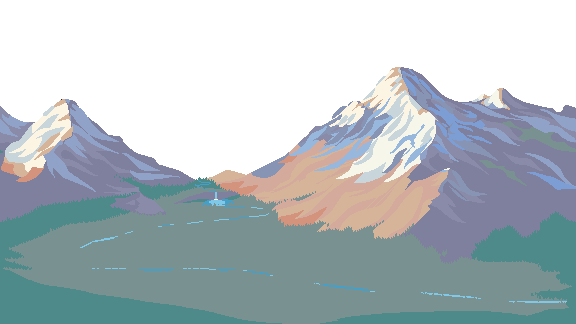
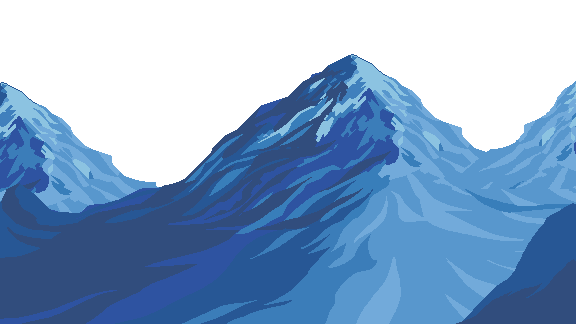
fixed some background bugs and edited some images

diff --git a/src/game/backgroundLayer.ts b/src/game/backgroundLayer.ts
@@ -15,7 +15,7 @@ export class BackgroundLayer implements Entity {
 
     physicsCollider = null;
     spriteType: string;
-    sprite1: ImagePath;
+    sprite: ImagePath;
     sprite2: ImagePath;
     spritePaths: ImagePath[];
 
@@ -32,12 +32,12 @@ export class BackgroundLayer implements Entity {
 
     // used for different middle and foreground layers
     spawnRandom: boolean;
-    timeInterval: number; // in seconds
+    timeInterval = 20; // in seconds
     timeSinceLastChange: number = 0; //in seconds
 
     // used for night/day stuff
     dayNightCycleTime: number = 0; // Time in the cycle
-    cycleDuration: number = 20; // 2 minutes for full day/night cycle
+    cycleDuration: number = 120; // 2 minutes for full day/night cycle
     timeOfDayAlpha: number = 1; // 0 = night, 1 = day
     sunOrMoon: number = 0; // 0 = sun, 1 = moon
 
@@ -49,13 +49,12 @@ export class BackgroundLayer implements Entity {
         startX: number,
         startY: number,
         spawnRandom: boolean = true,
-        timeInterval: number = 5,
     ) {
         let parts = spritePaths[0].split("/");
         this.spriteType = parts[parts.length - 2];
 
         this.id = `${this.tag}#${crypto.randomUUID()}`;
-        this.sprite1 = new ImagePath(spritePaths[0]);
+        this.sprite = new ImagePath(spritePaths[0]);
         this.sprite2 = new ImagePath(spritePaths[0]);
         this.spritePaths = spritePaths.map(path => new ImagePath(path));
 
@@ -70,13 +69,13 @@ export class BackgroundLayer implements Entity {
         this.widthInWorldUnits = widthInWorldUnits;
 
         this.spawnRandom = spawnRandom;
-        this.timeInterval = timeInterval;
+        console.log(`Created ${this.spriteType} layer with ID ${this.id}`);
     }
 
 
     draw(ctx: CanvasRenderingContext2D, game: GameEngine): void {
-        let sprite = game.getSprite(this.sprite1);
-        let sprite2 = game.getSprite(this.sprite2);
+        const sprite = game.getSprite(this.sprite);
+        const sprite2 = game.getSprite(this.sprite2);
 
         const player_width_in_world_units = this.widthInWorldUnits;
 
@@ -115,25 +114,28 @@ export class BackgroundLayer implements Entity {
 
             // blend for day/night cycle
             if (this.spriteType == "background") {
-                sprite = game.getSprite(this.spritePaths[1]);
-                sprite2 = game.getSprite(this.spritePaths[1]);
+                //get night sprites
+                const nightSprite = game.getSprite(this.spritePaths[1]);
+                const nightSprite2 = game.getSprite(this.spritePaths[1]);
+
                 ctx.globalAlpha = this.timeOfDayAlpha;
 
                 ctx.drawImage(
-                    sprite,
+                    nightSprite,
                     screenX - w / 2,
                     screenY - h,
                     w,
                     h
                 );
+                
+                
                 ctx.drawImage(
-                    sprite2,
+                    nightSprite2,
                     screenX2 - w / 2,
                     screenY2 - h,
                     w,
                     h
                 );
-                ctx.globalAlpha = 1;
             }
         }
     }
@@ -158,10 +160,10 @@ export class BackgroundLayer implements Entity {
                 
                 // swap sprites when position resets
                 if (this.spawnRandom && this.timeSinceLastChange >= this.timeInterval) {
-                    this.sprite1 = this.spritePaths[Math.floor(Math.random() * this.spritePaths.length)];
+                    this.sprite = this.spritePaths[Math.floor(Math.random() * this.spritePaths.length)];
                     this.timeSinceLastChange = 0;
                 } else {
-                    this.sprite1 = this.sprite2;
+                    this.sprite = this.sprite2;
                 }
 
             } else {
@@ -175,7 +177,7 @@ export class BackgroundLayer implements Entity {
                     this.sprite2 = this.spritePaths[Math.floor(Math.random() * this.spritePaths.length)];
                     this.timeSinceLastChange = 0;
                 } else {
-                    this.sprite2 = this.sprite1;
+                    this.sprite2 = this.sprite;
                 }
             } else {
                 this.position2.x -= this.velocity.x * this.parallaxSpeed;
@@ -191,23 +193,23 @@ export class BackgroundLayer implements Entity {
     
             if (cycleProgress < 0.5) {
                 // day
-                this.sprite1 = this.spritePaths[0]; // sun
+                this.sprite = this.spritePaths[0]; // sun
                 const sunProgress = cycleProgress * 2;
 
                 this.position.x = this.playerPosition.x + this.worldWidth - (sunProgress * this.worldWidth * 2);
                 // Arc motion
                 const angleInArc = sunProgress * Math.PI * 1.5;
-                this.position.y = this.playerPosition.y - 20 - (Math.sin(angleInArc) * verticalHeight);
+                this.position.y = this.playerPosition.y - 5 - (Math.sin(angleInArc) * verticalHeight);
             } else {
                 // night
-                this.sprite1 = this.spritePaths[1]; // moon
+                this.sprite = this.spritePaths[1]; // moon
                 const moonProgress = (cycleProgress - 0.5) * 2;
         
                 // Move from right to left
                 this.position.x = this.playerPosition.x + this.worldWidth - (moonProgress * this.worldWidth * 2);
                 // Arc motion
                 const angleInArc = moonProgress * Math.PI * 1.5;
-                this.position.y = this.playerPosition.y - 20 - (Math.sin(angleInArc) * verticalHeight);
+                this.position.y = this.playerPosition.y - 5 - (Math.sin(angleInArc) * verticalHeight);
             }
         }
     }

diff --git a/src/game/background.ts b/src/game/background.ts
@@ -40,17 +40,19 @@ export class Background {
         GameEngine.g_INSTANCE.addUniqueEntity(new BackgroundLayer(
             paths, //paths
             0.05, //parallaxSpeed
-            10, //widthInWorldUnits
+            40, //widthInWorldUnits
             0,  //startX doesnt matter here
             0, //startY doesnt matter here
             false, //spawnRandom
-            2000, //TimeInterval
         ), DrawLayer.BACKGROUND);
 
         // this is used for mountains
         paths = [
             "res/img/background/middleground/middle1.png",
             "res/img/background/middleground/middle2.png",
+            "res/img/background/middleground/middle3.png",
+            "res/img/background/middleground/middle4.png",
+            "res/img/background/middleground/middle5.png"
         ];
 
         GameEngine.g_INSTANCE.addUniqueEntity(new BackgroundLayer(
@@ -68,6 +70,8 @@ export class Background {
             "res/img/background/foreground/fore1.png",
             "res/img/background/foreground/fore2.png",
             "res/img/background/foreground/fore3.png",
+            "res/img/background/foreground/fore4.png",
+            "res/img/background/foreground/fore5.png"
         ];
 
         GameEngine.g_INSTANCE.addUniqueEntity(new BackgroundLayer(

diff --git a/src/game/main.ts b/src/game/main.ts
@@ -61,16 +61,20 @@ ASSET_MANAGER.queueDownload("res/img/background/background/day.png");
 ASSET_MANAGER.queueDownload("res/img/background/background/night.png");
 ASSET_MANAGER.queueDownload("res/img/background/sky/sun.png");
 ASSET_MANAGER.queueDownload("res/img/background/sky/moon.png");
-ASSET_MANAGER.queueDownload("res/img/background/sky/cloud.png");
 
 // === Background Assets ===
 ASSET_MANAGER.queueDownload("res/img/background/middleground/middle1.png");
 ASSET_MANAGER.queueDownload("res/img/background/middleground/middle2.png");
+ASSET_MANAGER.queueDownload("res/img/background/middleground/middle3.png");
+ASSET_MANAGER.queueDownload("res/img/background/middleground/middle4.png");
+ASSET_MANAGER.queueDownload("res/img/background/middleground/middle5.png");
 
 // === Foreground Assets ===
 ASSET_MANAGER.queueDownload("res/img/background/foreground/fore1.png");
 ASSET_MANAGER.queueDownload("res/img/background/foreground/fore2.png");
 ASSET_MANAGER.queueDownload("res/img/background/foreground/fore3.png");
+ASSET_MANAGER.queueDownload("res/img/background/foreground/fore4.png");
+ASSET_MANAGER.queueDownload("res/img/background/foreground/fore5.png");
 
 // === Music Assets ===
 ASSET_MANAGER.queueDownload("res/aud/game_music.ogg");

diff --git a/src/game/Items/ItemEntity.ts b/src/game/Items/ItemEntity.ts
@@ -18,7 +18,7 @@ export class ItemEntity implements Entity, Collidable {
     position: Vec2 = new Vec2();
     velocity: Vec2 = new Vec2();
     physicsCollider: BoxCollider;
-    sprite1: ImagePath;
+    sprite: ImagePath;
     removeFromWorld: boolean = false;
     animation: Animator;
 
@@ -30,7 +30,7 @@ export class ItemEntity implements Entity, Collidable {
     constructor(item: Item, animator: Animator, BBX: number, BBY: number, position?: Vec2) {
         this.id = `${this.tag}__${item.tag}#${crypto.randomUUID()}`;
         this.item = item;
-        this.sprite1 = item.sprite;
+        this.sprite = item.sprite;
         this.animation = animator;
         if (position) {
             this.position = position;

diff --git a/src/game/bullet.ts b/src/game/bullet.ts
@@ -18,7 +18,7 @@ export class Bullet implements Entity, Collidable {
     velocity: Vec2 = new Vec2();
     position: Vec2 = new Vec2();
     physicsCollider = new BoxCollider(1, 1);
-    sprite1: ImagePath = new ImagePath("res/img/ammo/test_bullet.png");
+    sprite: ImagePath = new ImagePath("res/img/ammo/test_bullet.png");
     removeFromWorld: boolean = false;
 
     speed: number = 100 // world units per second

diff --git a/src/game/ThrowerZombie.ts b/src/game/ThrowerZombie.ts
@@ -13,7 +13,7 @@ export class ThrowerZombie implements Entity {
     velocity: Vec2 = new Vec2();
     position: Vec2 = new Vec2();
     physicsCollider = new BoxCollider(2, 4);
-    sprite1: ImagePath = new ImagePath("res/img/player_new.png");
+    sprite: ImagePath = new ImagePath("res/img/player_new.png");
     removeFromWorld: boolean = false;
     animator: Animator = new Animator([
         [

diff --git a/src/game/BasicZombie.ts b/src/game/BasicZombie.ts
@@ -18,7 +18,7 @@ export class BasicZombie implements Entity {
     velocity: Vec2 = new Vec2();
     position: Vec2 = new Vec2();
     physicsCollider = new BoxCollider(2, 4);
-    sprite1: ImagePath = new ImagePath("res/img/player_new.png");
+    sprite: ImagePath = new ImagePath("res/img/player_new.png");
     removeFromWorld: boolean = false;
     animator: Animator = new Animator([
         [

diff --git a/src/game/player.ts b/src/game/player.ts
@@ -22,7 +22,7 @@ export class Player implements Entity, Collidable {
     velocity: Vec2 = new Vec2();
     position: Vec2 = new Vec2();
     physicsCollider = new BoxCollider(2.5, 6.5);
-    sprite1: ImagePath = new ImagePath("res/img/player_new.png");
+    sprite: ImagePath = new ImagePath("res/img/player_new.png");
     removeFromWorld: boolean = false;
     dead: boolean = false;
 

diff --git a/src/game/spike.ts b/src/game/spike.ts
@@ -17,7 +17,7 @@ export class Spike implements Entity {
     velocity: Vec2 = { x: 0, y: 0 };
 
     physicsCollider: BoxCollider = new BoxCollider(2, 2);
-    sprite1: ImagePath = new ImagePath("res/img/spike.png");
+    sprite: ImagePath = new ImagePath("res/img/spike.png");
 
     removeFromWorld = false;
     animator: Animator = new Animator([

diff --git a/src/game/mountain.ts b/src/game/mountain.ts
@@ -14,7 +14,7 @@ export class Mountain implements Entity {
     physicsCollider: MountainCollider | null = null;
     position: Vec2 = new Vec2();
     velocity: Vec2 = new Vec2();
-    sprite1: ImagePath | null = null;
+    sprite: ImagePath | null = null;
     removeFromWorld: boolean = false;
 
     // Anchor Points Setup

diff --git a/src/game/UI.ts b/src/game/UI.ts
@@ -14,7 +14,7 @@ export class UILayer implements Entity {
     position: Vec2 = new Vec2();
     velocity: Vec2 = new Vec2();
     physicsCollider: Collider | null = null;
-    sprite1: ImagePath | null = null;
+    sprite: ImagePath | null = null;
     removeFromWorld: boolean = false;
 
 

diff --git a/src/engine/Entity.ts b/src/engine/Entity.ts
@@ -22,7 +22,7 @@ export type Entity = {
     /**
      * The fallback sprite for the entity if it's not animatable.
      */
-    sprite1: ImagePath | null;
+    sprite: ImagePath | null;
 
     removeFromWorld: boolean;
     draw(ctx: CanvasRenderingContext2D, game: GameEngine): void;
